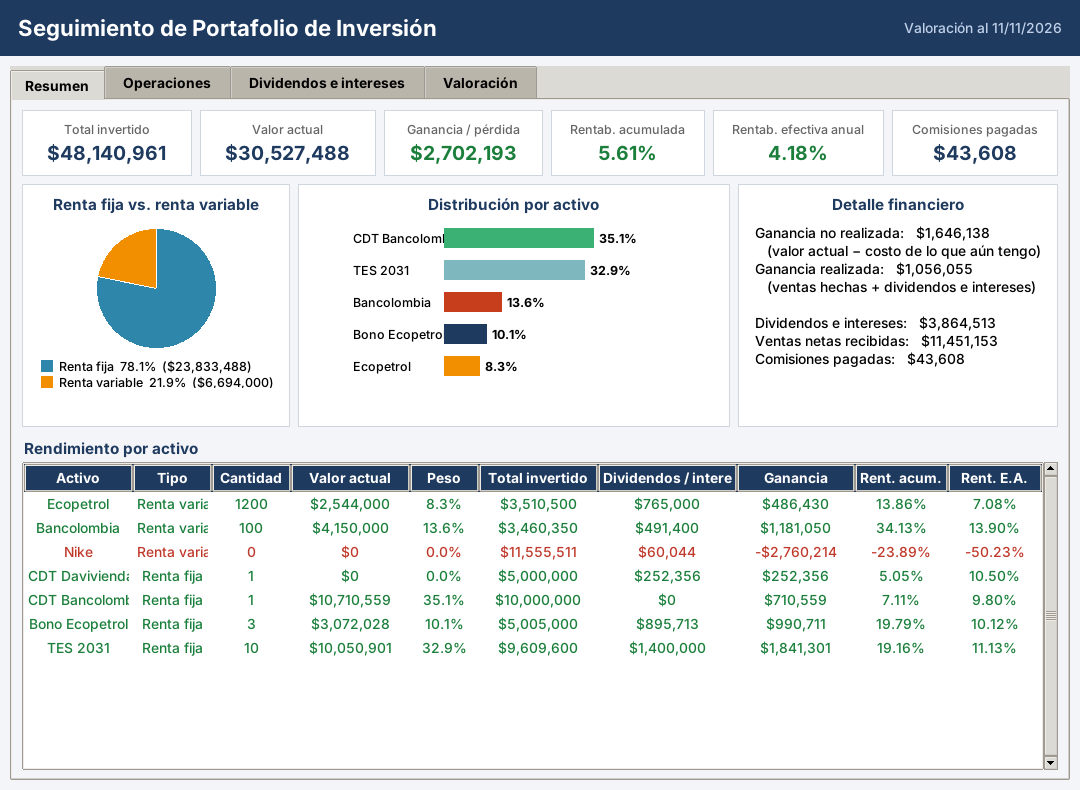
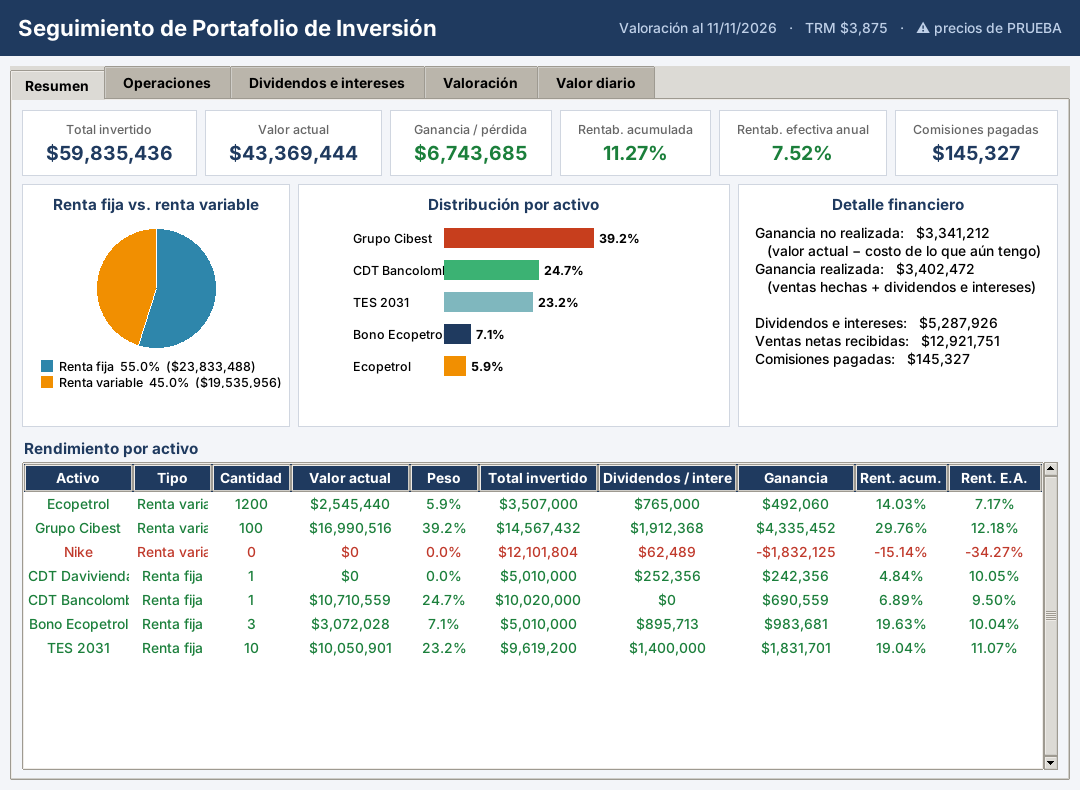
Documentacion: todas las formulas, fuentes de datos, UML y wiki
Claude-Session: https://claude.ai/code/session_019ZtvjHpnEGVviKwN8tm7GD

diff --git a/README.md b/README.md
@@ -1,11 +1,12 @@
 # Seguimiento de portafolio de inversión
 
 Programa en Python con interfaz gráfica (Tkinter) para registrar y evaluar un portafolio de
-**renta variable** (acciones) y **renta fija** (CDT, bonos y TES). Calcula la rentabilidad
-acumulada y la **rentabilidad efectiva anual (E.A.)** teniendo en cuenta comisiones,
-dividendos, intereses, pagos de capital y la valoración de cada activo.
+**renta variable** (acciones) y **renta fija** (CDT, bonos y TES). Descarga los precios de las
+acciones con **yfinance** y la **TRM oficial** de datos.gov.co, cobra la **comisión del bróker
+(0,2 % por transacción)**, calcula la rentabilidad acumulada y la **efectiva anual (E.A.)**, y
+valora el portafolio **día por día** en el rango de fechas que se elija.
 
-Los resultados se pueden comprobar contra el **Excel de control** (`excel/Portafolio_control.xlsx`),
+Los resultados se comprueban contra el **Excel de control** (`excel/Portafolio_control.xlsx`),
 que hace los mismos cálculos con fórmulas.
 
 ![Pantalla de resumen](docs/img/interfaz_resumen.png)
@@ -14,58 +15,137 @@ que hace los mismos cálculos con fórmulas.
 
 | Requisito | Dónde |
 |---|---|
-| Registrar compras y ventas (fecha, cantidad, precio, comisión) de acciones, CDT, bonos y TES | Pestaña **Operaciones** |
+| Registrar compras y ventas (fecha, cantidad, precio) de acciones, CDT, bonos y TES; la comisión se calcula sola | Pestaña **Operaciones** |
 | Registrar dividendos, intereses y pagos de capital | Pestaña **Dividendos e intereses** |
-| Actualizar la valoración (precio de mercado o tasa, plazo y vencimiento del título) | Pestaña **Valoración** |
-| Total invertido, valor actual, ganancia, comisiones, rentabilidad acumulada y E.A. | Pestaña **Resumen** |
-| Distribución renta fija / renta variable y por activo | Pestaña **Resumen** |
+| Traer precios de mercado (yfinance) y TRM; valorar renta fija por tasa, plazo y vencimiento | Pestaña **Valoración** |
+| Total invertido, valor actual, ganancia, comisiones, rentabilidad acumulada y E.A., distribución | Pestaña **Resumen** |
+| Valor del portafolio cada día entre dos fechas (gráfico, tabla y CSV) | Pestaña **Valor diario** |
+
+![Valor diario](docs/img/interfaz_valor_diario.png)
 
 ## Cómo ejecutarlo
 
-Requiere Python 3.10 o superior. La interfaz solo usa la librería estándar.
+Requiere Python 3.10 o superior.
 
 ```bash
+pip install -r requirements.txt           # yfinance (descargas) y openpyxl (comparar con el Excel)
 python main.py                            # valora a la fecha de hoy
 python main.py --fecha-corte 2026-11-11   # valora a una fecha fija
 ```
 
-Los datos se guardan solos en `datos/portafolio.json`, que ya trae un portafolio de ejemplo.
+Primer uso: en **Valoración**, presionar **Actualizar precios de mercado (yfinance + TRM)**.
+El repositorio trae datos de mercado de **PRUEBA (sintéticos)** solo para que el programa
+funcione sin internet; el encabezado lo avisa con "⚠ precios de PRUEBA" hasta que se descargan los reales.
 
-## Cómo se calcula
+Los datos se guardan solos: operaciones y pagos en `datos/portafolio.json`, precios y TRM en `datos/mercado.csv`.
 
-- **Flujo de caja:** compra = −(cantidad × precio + comisión); venta = +(cantidad × precio − comisión); dividendos, intereses y capital = +monto.
-- **Valor de una acción:** precio de mercado manual × cantidad; si no hay precio manual, se usa el último precio de operación.
-- **Valor de renta fija:** cada peso invertido crece a la tasa E.A. del título hasta la fecha de corte, y cada peso recibido deja de crecer desde el día en que se recibió:
-  `Σ compras·(1+t)^(días/365) − Σ cobros·(1+t)^(días/365)`. Después del vencimiento vale 0.
-- **Ganancia total** = valor actual + ventas netas + dividendos e intereses + capital recibido − total invertido.
-- **Rentabilidad acumulada** = ganancia total / total invertido.
-- **Rentabilidad E.A.** = TIR no periódica (la función `TIR.NO.PER` / `XIRR` de Excel) de todos los flujos más el valor actual a la fecha de corte.
+## Fuentes de datos
 
-El detalle está en la [wiki](../../wiki) (copia en `docs/wiki/`).
+| Dato | Fuente | Detalle |
+|---|---|---|
+| Acciones | yfinance (Yahoo Finance) | `ECOPETROL.CL` (Bolsa de Colombia, COP), `CIB` (Grupo Cibest, NYSE, USD), `NKE` (Nike, NYSE, USD). Precio de **cierre sin ajustar**, porque los dividendos se registran aparte (el ajustado los contaría dos veces). |
+| TRM | datos.gov.co, conjunto `32sa-8pi3` (TRM certificada por la Superintendencia Financiera) | Si falla, respaldo con el dólar de Yahoo `COP=X`. |
+| CDT, bonos, TES | Tasa E.A. y vencimiento del título | No cotizan en Yahoo Finance; se valoran con su tasa (ver fórmulas). |
+| investing.com | No se usa | Está protegido contra bots (Cloudflare) y sus condiciones de uso prohíben el raspado; un scraper se rompe seguido. |
+
+Una serie (TRM o un ticker) vale, en una fecha, **su último dato con fecha menor o igual**:
+los fines de semana y festivos se usa el último cierre, y la TRM del viernes cubre el fin de semana.
+
+## Fórmulas
+
+Notación: *q* = cantidad, *P* = precio unitario en la moneda del activo, *c* = 0,2 % (comisión),
+*TRM(d)* = TRM del día *d* (vale 1 para activos en COP), *t* = tasa E.A. del título,
+*V* = fecha de vencimiento, *F* = fecha de corte. Todo resultado queda en pesos (COP).
+
+### Operaciones y pagos
+
+| # | Concepto | Fórmula |
+|---|---|---|
+| 1 | Monto de una operación | `q × P` |
+| 2 | Comisión del bróker | `c × q × P` (c = 0,2 % en compras y en ventas) |
+| 3 | Flujo de una compra (COP) | `−(q × P + comisión) × TRM(fecha)` |
+| 4 | Flujo de una venta (COP) | `+(q × P − comisión) × TRM(fecha)` |
+| 5 | Flujo de un pago (COP) | `+monto × TRM(fecha del pago)` |
+| 6 | TRM del día *d* | último valor de la serie TRM con fecha ≤ *d* |
+
+### Totales
+
+| # | Concepto | Fórmula |
+|---|---|---|
+| 7 | Total invertido | `Σ (q × P + comisión) × TRM(fecha)` de las compras |
+| 8 | Ventas netas | `Σ (q × P − comisión) × TRM(fecha)` de las ventas |
+| 9 | Comisiones pagadas | `Σ comisión × TRM(fecha)` |
+| 10 | Dividendos e intereses | `Σ monto × TRM(fecha)` de pagos tipo Dividendo e Interés |
+| 11 | Pagos de capital | `Σ monto` de pagos tipo Capital (dinero que vuelve, no ganancia) |
+| 12 | Cantidad actual | `Σ q compras − Σ q ventas` (con fecha ≤ *F*) |
+
+### Valoración a la fecha *F*
+
+| # | Concepto | Fórmula |
+|---|---|---|
+| 13 | Valor de una acción | `q actual × último cierre (≤ F) × TRM(F)`; sin cierre: último precio de operación |
+| 14 | Valor de renta fija vigente | `Σ compras_i · (1+t)^((min(F,V) − d_i)/365) − Σ cobros_j · (1+t)^((min(F,V) − d_j)/365)` |
+| 15 | Valor de renta fija vencida (*F* ≥ *V*) | `0` (el capital y los intereses se registran como pagos) |
+| 16 | Valor actual del portafolio | `Σ valor de cada activo` |
+| 17 | Participación renta fija / variable | `valor del grupo / valor actual` |
+
+En la fórmula 14, *compras* = q × P en COP (sin comisión), *cobros* = ventas, intereses y capital,
+y *d* = fecha de cada movimiento. Cada peso invertido crece a la tasa del título y cada peso
+cobrado deja de crecer el día en que se cobra. Con esta regla, un CDT al 10 % E.A. sin comisión rinde
+exactamente 10 % E.A., y un bono cuyo cupón es igual a la tasa vuelve a valer lo invertido después de
+pagarlo. La tasa y el vencimiento se toman de la primera compra del título.
+
+### Resultados
+
+| # | Concepto | Fórmula |
+|---|---|---|
+| 18 | Ganancia total | `valor actual + ventas netas + dividendos e intereses + capital − total invertido` |
+| 19 | Costo de lo que aún se tiene | `q actual × (total invertido / q comprada) − capital` (0 si el título venció) |
+| 20 | Ganancia no realizada | `valor actual − costo de lo que aún se tiene` |
+| 21 | Ganancia realizada | `ganancia total − ganancia no realizada` |
+| 22 | Rentabilidad acumulada | `ganancia total / total invertido` |
+| 23 | Rentabilidad E.A. | la tasa *r* que cumple `Σ flujo_k / (1+r)^((d_k − d_0)/365) = 0` con los flujos 3, 4 y 5 más el valor actual en *F* (= `TIR.NO.PER` / `XIRR` de Excel) |
+| 24 | Peso de un activo | `valor del activo / valor actual del portafolio` |
+| 25 | Días al vencimiento | `max(0, V − F)` |
+
+### Valor diario
+
+| # | Concepto | Fórmula |
+|---|---|---|
+| 26 | Valor del portafolio el día *d* | fórmulas 13 a 16 con *F* = *d*: cantidades a ese día, último cierre ≤ *d*, `TRM(d)` y renta fija causada hasta *d* |
+| 27 | Rango | cada día calendario desde la fecha inicial hasta la final, sin pasar de la fecha de corte |
+
+Lo registrado con fecha posterior a la fecha de corte no se tiene en cuenta en ningún cálculo.
 
 ## Comprobar contra el Excel
 
 ```bash
-pip install openpyxl
-python pruebas/comparar_con_excel.py                       # compara 69 valores, uno por uno
+python pruebas/llenar_excel.py        # copia operaciones, pagos y mercado del programa al Excel
+# abrir excel/Portafolio_control.xlsx en Excel y guardarlo (recalcula todo)
+python pruebas/comparar_con_excel.py  # compara cada indicador, cada activo y cada día
 python -m unittest discover -s pruebas -p "pruebas_*.py"   # casos verificables a mano
 ```
+
+Con los datos de ejemplo coinciden **4.096 de 4.096 valores** (totales, 7 activos y 366 días del
+valor diario), con un margen de 1 centavo en pesos y de 0,0001 puntos en tasas. También se probaron fechas de corte de
+2023, 2025, 2027 y 2031, rangos de 2 años, precios manuales y títulos vencidos.
 
 ## Estructura (una clase por archivo)
 
 | Archivo | Clase | Responsabilidad |
 |---|---|---|
 | `main.py` | — | Archivo principal: carga los datos y abre la interfaz |
-| `Interfaz.py` | `Interfaz` | Ventana con las 4 pestañas |
-| `portafolio.py` | `Portafolio` | Guarda operaciones, pagos y precios; valida; arma el resumen |
-| `posicion.py` | `Posicion` | Resultados de un activo a la fecha de corte |
+| `Interfaz.py` | `Interfaz` | Ventana con las 5 pestañas |
+| `portafolio.py` | `Portafolio` | Guarda operaciones y pagos, valida, arma el resumen y el valor diario |
+| `posicion.py` | `Posicion` | Resultados de un activo en una fecha (fórmulas 7 a 25) |
+| `mercado.py` | `Mercado` | Precios y TRM: consulta, descarga (yfinance, datos.gov.co) y CSV |
 | `rentabilidad.py` | `Rentabilidad` | Rentabilidad acumulada y E.A. (TIR) |
-| `activo.py` | `Activo` | Catálogo de instrumentos |
-| `operacion.py` | `Operacion` | Una compra o venta |
+| `activo.py` | `Activo` | Catálogo de instrumentos, con ticker y moneda |
+| `operacion.py` | `Operacion` | Una compra o venta, con su comisión |
 | `pago.py` | `Pago` | Un dividendo, interés o pago de capital |
 
 ![Diagrama UML](docs/img/uml_clases.png)
 
 ## Equipo
 
-Proyecto de clase. Ramas: `main`, `David` (interfaz), `Cris`, `Sebas` (modelo de cálculo, Excel de control y documentación).
+Proyecto de clase. Ramas: `main`, `David` (interfaz), `Cris`, `Sebas` (modelo de cálculo, mercado, Excel de control y documentación).

diff --git a/docs/wiki/Calculos-financieros.md b/docs/wiki/Calculos-financieros.md
@@ -1,30 +1,65 @@
 # Cálculos financieros
 
-Todas las cifras en pesos colombianos (COP). La base de días es 365, igual que `TIR.NO.PER` de Excel.
+Notación: *q* = cantidad, *P* = precio unitario en la moneda del activo, *c* = 0,2 % (comisión),
+*TRM(d)* = TRM del día *d* (vale 1 para activos en COP), *t* = tasa E.A. del título,
+*V* = fecha de vencimiento, *F* = fecha de corte. Todo resultado queda en pesos (COP).
 
-| Concepto | Fórmula |
-|---|---|
-| Flujo de una compra | −(cantidad × precio + comisión) |
-| Flujo de una venta | +(cantidad × precio − comisión) |
-| Total invertido | Σ (cantidad × precio + comisión) de las compras |
-| Ventas netas | Σ (cantidad × precio − comisión) de las ventas |
-| Valor de una acción | precio manual × cantidad, o último precio de operación × cantidad |
-| Valor de renta fija | Σ compras·(1+t)^(d/365) − Σ (ventas, intereses, capital)·(1+t)^(d/365); 0 si ya venció |
-| Ganancia total | valor actual + ventas netas + dividendos e intereses + capital − total invertido |
-| Costo de lo que aún se tiene | cantidad actual × (total invertido / cantidad comprada) − capital devuelto |
-| Ganancia no realizada | valor actual − costo de lo que aún se tiene |
-| Ganancia realizada | ganancia total − ganancia no realizada |
-| Rentabilidad acumulada | ganancia total / total invertido |
-| Rentabilidad E.A. | tasa *r* que hace Σ flujo / (1+r)^(días/365) = 0 (incluye el valor actual como último flujo) |
+### Operaciones y pagos
 
-**t** = tasa E.A. del título (se toma de su primera compra) y **d** = días desde el movimiento hasta la fecha de corte (sin pasar del vencimiento).
+| # | Concepto | Fórmula |
+|---|---|---|
+| 1 | Monto de una operación | `q × P` |
+| 2 | Comisión del bróker | `c × q × P` (c = 0,2 % en compras y en ventas) |
+| 3 | Flujo de una compra (COP) | `−(q × P + comisión) × TRM(fecha)` |
+| 4 | Flujo de una venta (COP) | `+(q × P − comisión) × TRM(fecha)` |
+| 5 | Flujo de un pago (COP) | `+monto × TRM(fecha del pago)` |
+| 6 | TRM del día *d* | último valor de la serie TRM con fecha ≤ *d* |
 
-## Por qué la renta fija se valora así
-Si un CDT de tasa 10 % E.A. se valora con esta regla, su rentabilidad E.A. calculada da exactamente 10 %. Si un bono paga un cupón igual a su tasa, después del pago vuelve a valer lo invertido. Así, el valor no se "infla" ni se descuenta dos veces lo que ya se cobró.
+### Totales
 
-## Ejemplo verificable a mano
-Compra de 100 acciones a $2.000 con comisión de $600, dividendo de $10.000 y precio actual de $2.200:
-- Total invertido = 200.600
-- Valor actual = 220.000
-- Ganancia = 220.000 + 10.000 − 200.600 = 29.400
-- Rentabilidad acumulada = 29.400 / 200.600 = 14,66 %
+| # | Concepto | Fórmula |
+|---|---|---|
+| 7 | Total invertido | `Σ (q × P + comisión) × TRM(fecha)` de las compras |
+| 8 | Ventas netas | `Σ (q × P − comisión) × TRM(fecha)` de las ventas |
+| 9 | Comisiones pagadas | `Σ comisión × TRM(fecha)` |
+| 10 | Dividendos e intereses | `Σ monto × TRM(fecha)` de pagos tipo Dividendo e Interés |
+| 11 | Pagos de capital | `Σ monto` de pagos tipo Capital (dinero que vuelve, no ganancia) |
+| 12 | Cantidad actual | `Σ q compras − Σ q ventas` (con fecha ≤ *F*) |
+
+### Valoración a la fecha *F*
+
+| # | Concepto | Fórmula |
+|---|---|---|
+| 13 | Valor de una acción | `q actual × último cierre (≤ F) × TRM(F)`; sin cierre: último precio de operación |
+| 14 | Valor de renta fija vigente | `Σ compras_i · (1+t)^((min(F,V) − d_i)/365) − Σ cobros_j · (1+t)^((min(F,V) − d_j)/365)` |
+| 15 | Valor de renta fija vencida (*F* ≥ *V*) | `0` (el capital y los intereses se registran como pagos) |
+| 16 | Valor actual del portafolio | `Σ valor de cada activo` |
+| 17 | Participación renta fija / variable | `valor del grupo / valor actual` |
+
+En la fórmula 14, *compras* = q × P en COP (sin comisión), *cobros* = ventas, intereses y capital,
+y *d* = fecha de cada movimiento. Cada peso invertido crece a la tasa del título y cada peso
+cobrado deja de crecer el día en que se cobra. Con esta regla, un CDT al 10 % E.A. sin comisión rinde
+exactamente 10 % E.A., y un bono cuyo cupón es igual a la tasa vuelve a valer lo invertido después de
+pagarlo. La tasa y el vencimiento se toman de la primera compra del título.
+
+### Resultados
+
+| # | Concepto | Fórmula |
+|---|---|---|
+| 18 | Ganancia total | `valor actual + ventas netas + dividendos e intereses + capital − total invertido` |
+| 19 | Costo de lo que aún se tiene | `q actual × (total invertido / q comprada) − capital` (0 si el título venció) |
+| 20 | Ganancia no realizada | `valor actual − costo de lo que aún se tiene` |
+| 21 | Ganancia realizada | `ganancia total − ganancia no realizada` |
+| 22 | Rentabilidad acumulada | `ganancia total / total invertido` |
+| 23 | Rentabilidad E.A. | la tasa *r* que cumple `Σ flujo_k / (1+r)^((d_k − d_0)/365) = 0` con los flujos 3, 4 y 5 más el valor actual en *F* (= `TIR.NO.PER` / `XIRR` de Excel) |
+| 24 | Peso de un activo | `valor del activo / valor actual del portafolio` |
+| 25 | Días al vencimiento | `max(0, V − F)` |
+
+### Valor diario
+
+| # | Concepto | Fórmula |
+|---|---|---|
+| 26 | Valor del portafolio el día *d* | fórmulas 13 a 16 con *F* = *d*: cantidades a ese día, último cierre ≤ *d*, `TRM(d)` y renta fija causada hasta *d* |
+| 27 | Rango | cada día calendario desde la fecha inicial hasta la final, sin pasar de la fecha de corte |
+
+Lo registrado con fecha posterior a la fecha de corte no se tiene en cuenta en ningún cálculo.

diff --git a/docs/wiki/Instalacion-y-uso.md b/docs/wiki/Instalacion-y-uso.md
@@ -1,21 +1,25 @@
 # Instalación y uso
 
 1. Instalar Python 3.10 o superior (en Windows y macOS ya incluye Tkinter; en Linux: `sudo apt install python3-tk`).
-2. Clonar el repositorio y entrar a la carpeta.
+2. Clonar el repositorio, entrar a la carpeta y ejecutar `pip install -r requirements.txt`.
 3. Ejecutar `python main.py`.
+4. Primer uso: pestaña **Valoración** → **Actualizar precios de mercado (yfinance + TRM)**. Hasta hacerlo, el encabezado muestra "⚠ precios de PRUEBA".
 
 ## Pestañas
 - **Resumen:** total invertido, valor actual, ganancia, rentabilidad acumulada y E.A., comisiones, distribución renta fija / variable y tabla por activo.
-- **Operaciones:** registrar compras y ventas. En la compra de renta fija se escribe la tasa E.A. (en %) y el vencimiento (AAAA-MM-DD).
-- **Dividendos e intereses:** registrar dividendos (acciones), intereses y pagos de capital (renta fija).
-- **Valoración:** escribir el precio de mercado de un activo o volver a la valoración automática.
+- **Operaciones:** compras y ventas. El precio va en la moneda del activo (USD para Nike y Grupo Cibest). La comisión del bróker (0,2 %) se calcula sola. En la compra de renta fija se escribe la tasa E.A. (en %) y el vencimiento (AAAA-MM-DD).
+- **Dividendos e intereses:** dividendos (acciones), intereses y pagos de capital (renta fija), en la moneda del activo.
+- **Valoración:** descarga de precios y TRM; precio manual para una acción (vale desde la fecha de corte); valor de cada activo.
+- **Valor diario:** escribir *Desde* y *Hasta*, presionar **Calcular**: gráfico y tabla con el valor del portafolio cada día; **Exportar CSV**.
 
 ## Reglas que valida el programa
 - No se puede vender más unidades de las que se tienen en esa fecha.
 - La compra de renta fija exige tasa y un vencimiento posterior a la fecha de compra.
 - Las acciones solo pagan dividendos; la renta fija paga intereses o capital.
 - Un pago no puede ser anterior a la primera compra del activo.
-- Cantidades y precios mayores que cero; comisiones no negativas.
+- Una operación o pago en dólares necesita la TRM de esa fecha.
+- El precio manual es solo para acciones (la renta fija se valora por tasa).
+- Cantidades y precios mayores que cero.
 
 ## Fecha de corte
 Todo se valora a la fecha de corte (por defecto, hoy). Para valorar a otra fecha:

diff --git a/docs/wiki/Excel-de-control.md b/docs/wiki/Excel-de-control.md
@@ -1,23 +1,26 @@
 # Excel de control
 
-`excel/Portafolio_control.xlsx` hace con fórmulas los mismos cálculos que el programa. Sirve para comprobar que el programa calcula bien.
+`excel/Portafolio_control.xlsx` hace con fórmulas los mismos cálculos que el programa, para comprobar que el programa calcula bien.
 
 | Hoja | Contenido |
 |---|---|
 | Instrucciones | Cómo usarlo y reglas de cálculo |
-| Resumen | Fecha de corte, indicadores, distribución y tabla por activo |
-| Activos | Catálogo (igual al de `activo.py`) y precio de mercado manual |
-| Operaciones | Compras y ventas (en orden de fecha) |
-| Pagos | Dividendos, intereses y capital |
+| Resumen | Fecha de corte, comisión del bróker (0,2 %), TRM, indicadores, distribución y tabla por activo |
+| Activos | Catálogo (igual al de `activo.py`): ticker de Yahoo y moneda |
+| Operaciones | Compras y ventas (en orden de fecha); TRM, comisión y flujo en COP calculados |
+| Pagos | Dividendos, intereses y capital; monto en COP calculado |
+| Mercado | Cierres de yfinance y TRM (una fila por serie y fecha) |
 | Por activo | Cálculo por activo (equivale a la clase `Posicion`) |
 | Flujos | Flujos de caja para `TIR.NO.PER` |
+| Valor diario | Valor del portafolio cada día entre *Desde* y *Hasta* (hasta 731 días) |
 
 Celdas amarillas = datos; grises = fórmulas.
 
 ## Comparación automática
 ```bash
-pip install openpyxl
-python pruebas/comparar_con_excel.py
+python pruebas/llenar_excel.py        # copia los datos del programa al Excel
+# abrir el Excel y guardarlo
+python pruebas/comparar_con_excel.py  # compara totales, activos y cada día
 ```
-El script lee los datos del Excel, los carga en el programa con la misma fecha de corte y compara 69 valores (totales y por activo). Diferencia máxima permitida: 1 centavo en valores y 0,0001 puntos porcentuales en tasas.
-Se probó con 9 fechas de corte distintas (antes de algunas compras, con títulos vencidos, con y sin precios manuales) y todos los valores coincidieron.
+Diferencia máxima permitida: 1 centavo en pesos y 0,0001 puntos en tasas. Con los datos de ejemplo coinciden 4.096 de 4.096 valores.
+Se probó también con fechas de corte en 2023, 2025, 2027 y 2031, rangos de dos años, precios manuales y títulos vencidos.

diff --git a/docs/wiki/Fuentes-de-datos.md b/docs/wiki/Fuentes-de-datos.md
@@ -1,0 +1,14 @@
+# Fuentes de datos
+
+| Dato | Fuente | Detalle |
+|---|---|---|
+| Acciones | yfinance (Yahoo Finance) | `ECOPETROL.CL` (Bolsa de Colombia, COP), `CIB` (Grupo Cibest, NYSE, USD), `NKE` (Nike, NYSE, USD). Precio de **cierre sin ajustar**, porque los dividendos se registran aparte (el ajustado los contaría dos veces). |
+| TRM | datos.gov.co, conjunto `32sa-8pi3` (TRM certificada por la Superintendencia Financiera) | Si falla, respaldo con el dólar de Yahoo `COP=X`. |
+| CDT, bonos, TES | Tasa E.A. y vencimiento del título | No cotizan en Yahoo Finance; se valoran con su tasa (ver fórmulas). |
+| investing.com | No se usa | Está protegido contra bots (Cloudflare) y sus condiciones de uso prohíben el raspado; un scraper se rompe seguido. |
+
+Una serie (TRM o un ticker) vale, en una fecha, **su último dato con fecha menor o igual**:
+los fines de semana y festivos se usa el último cierre, y la TRM del viernes cubre el fin de semana.
+
+## Cómo se actualizan
+Pestaña **Valoración** → **Actualizar precios de mercado (yfinance + TRM)**. Descarga desde 10 días antes de la primera operación hasta la fecha de corte, reemplaza los datos descargados antes (también los de PRUEBA) y conserva los precios manuales. Todo queda en `datos/mercado.csv` (columnas fecha, serie, valor, fuente).

diff --git a/docs/wiki/Home.md b/docs/wiki/Home.md
@@ -1,11 +1,13 @@
 # Seguimiento de portafolio de inversión — Wiki
 
-Sistema para monitorear y evaluar un portafolio con renta fija (CDT, bonos, TES) y renta variable (acciones).
+Sistema para monitorear y evaluar un portafolio con renta fija (CDT, bonos, TES) y renta variable (acciones),
+con precios de yfinance, TRM oficial, comisión del bróker de 0,2 % y valoración día por día.
 
-![Pantalla de valoración](https://raw.githubusercontent.com/N-um/Portafolio-de-inversion./main/docs/img/interfaz_valoracion.png)
+![Valor diario](https://raw.githubusercontent.com/N-um/Portafolio-de-inversion./main/docs/img/interfaz_valor_diario.png)
 
 ## Páginas
 - [[Instalación y uso|Instalacion-y-uso]]
-- [[Cálculos financieros|Calculos-financieros]]
+- [[Fuentes de datos|Fuentes-de-datos]]
+- [[Cálculos financieros|Calculos-financieros]] (las 27 fórmulas)
 - [[Excel de control|Excel-de-control]]
 - [[Diagrama de clases|Diagrama-de-clases]]

diff --git a/docs/wiki/Diagrama-de-clases.md b/docs/wiki/Diagrama-de-clases.md
@@ -4,5 +4,6 @@
 
 - `main.py` crea el `Portafolio` (cargado desde `datos/portafolio.json`) y la `Interfaz`.
 - `Portafolio` contiene las `Operacion` y los `Pago` (composición) y crea una `Posicion` por activo para calcular.
-- `Posicion` usa `Activo` (condiciones del instrumento) y `Rentabilidad` (TIR).
+- `Portafolio` contiene un `Mercado` (precios de yfinance y TRM de datos.gov.co).
+- `Posicion` usa `Activo` (condiciones del instrumento), consulta el `Mercado` (cierres y TRM) y usa `Rentabilidad` (TIR).
 - Fuente del diagrama: `docs/uml_clases.dot` (Graphviz: `dot -Tpng docs/uml_clases.dot -o docs/img/uml_clases.png`).
